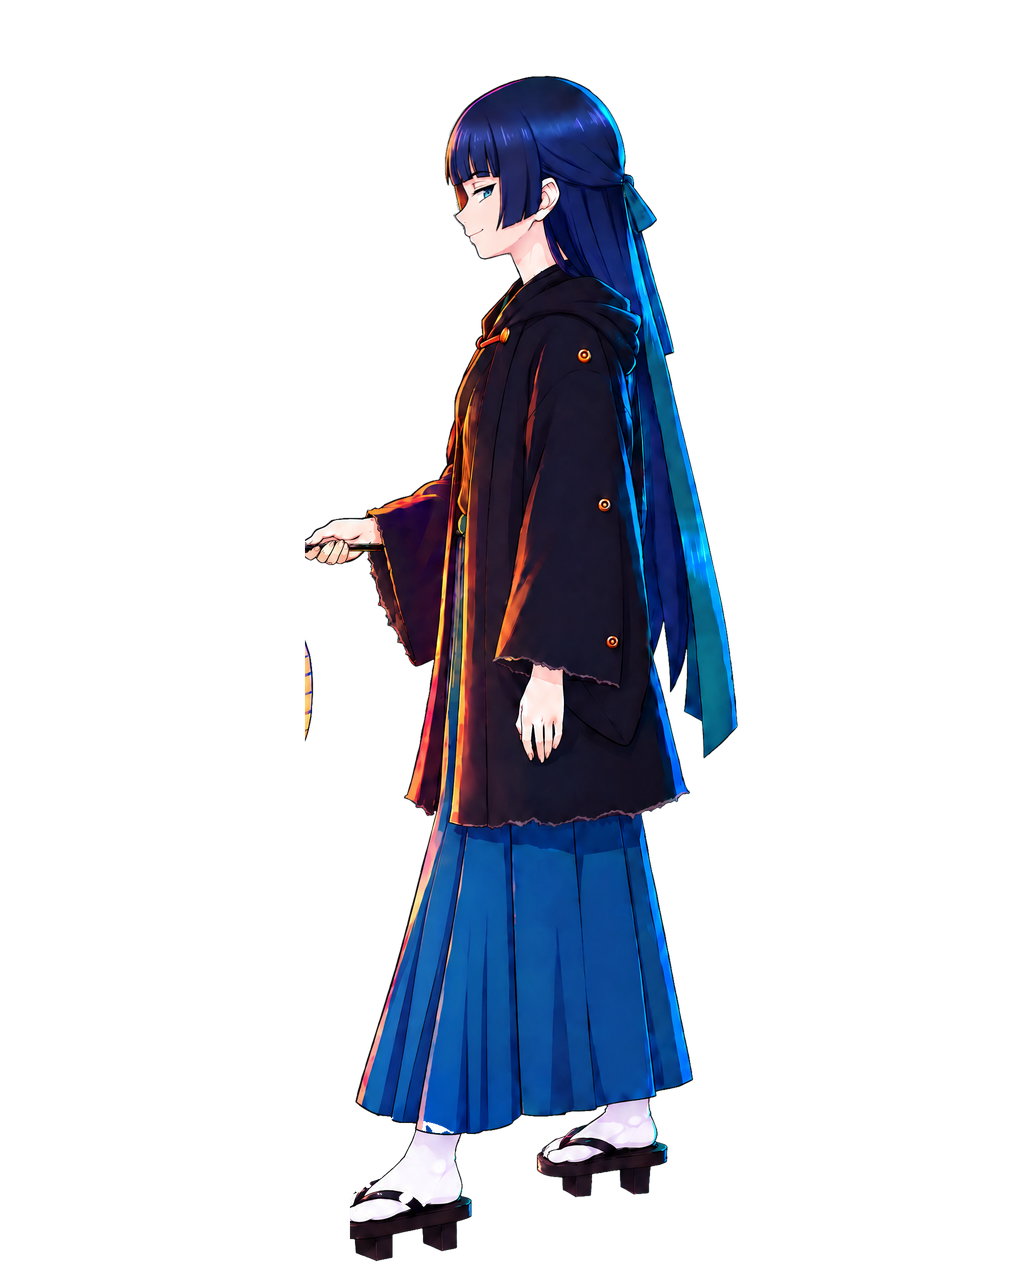
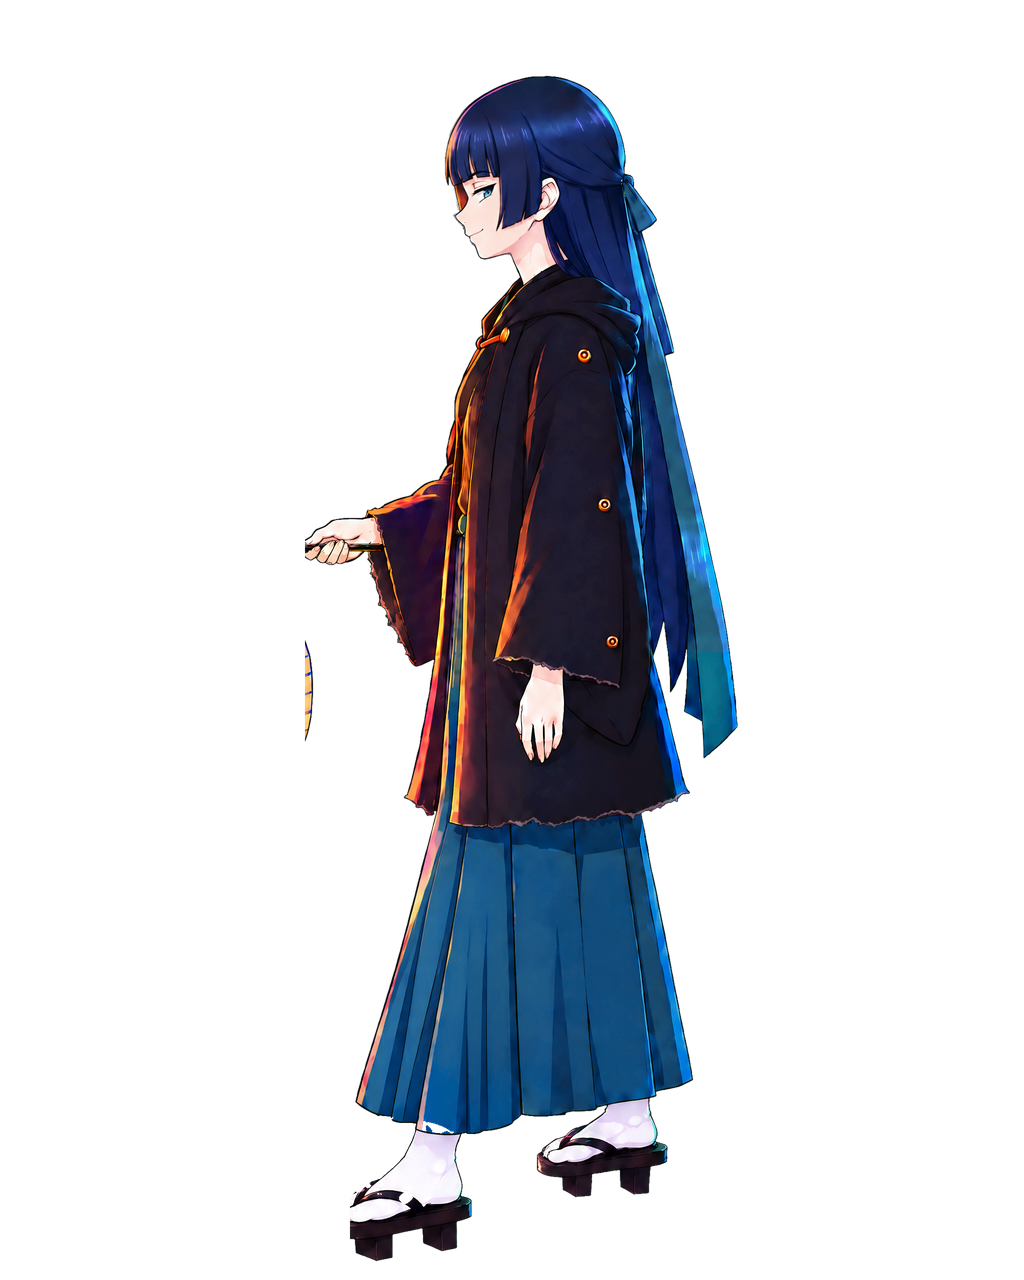
The room ending after v7 (the director's notes; Fable's ruling): - The step matches her: its drawing had drifted over three generations of edits (the hakama royal blue, not her teal); the build   now matches its hakama, hair and jacket to the standing drawing in LAB (mean and spread per region, soft

diff --git a/projects/tsuzuku/src/fableroom.js b/projects/tsuzuku/src/fableroom.js
@@ -154,8 +154,9 @@ const FABLEROOM = (() => {
   //   197.24  claps, two before each "and then" (197.59, 198.21, 198.89), on the eighths before the call.
   //   199.0   the hit: the lantern raised overhead (r_half, r_up: snapped on the dash, 199.07), F-D, "the hit": an open smile, eyes
   //           open, at the window ("I'd still like to see"). Held, frozen with the card, through the ring-out.
-  //   200.58  she lowers it (r_half, then standing), turns (three-quarter, the lantern swinging round in front), glances back at the
-  //           window smiling, and walks off right with the lantern leading, geta on the beat (200.82, 201.18); gone by ~201.3.
+  //   200.58  she lowers it (r_half, then standing) and stays (Fable, after v7: no walk-off): F-C, watching the doors close on the
+  //           frozen card (201.5-202.4), the lantern settling on its ring, still, lit, to the outro's clack at 202.59. (The turn,
+  //           glance and walk drawings stay in rig/fable_room/ending for the record; OFF is unused.)
   const E = { meta: null, img: {}, head: null, P: null }, BR = 60 / 170 * 4, BEAT = BR / 4, EIGHTH = BR / 8;
   const sl = t => Math.floor(t * 12 + 1e-6);
   const EK = { start: 177.8, drop: 182.1176, swing: 185.7, push: 187.6667, stepK: 190.5834, close: 190.9167, smile: 191.25,
@@ -163,7 +164,7 @@ const FABLEROOM = (() => {
   const PULSE = BR / 2;                                                // her pulse: the half-note
   const CALLS1 = [189.111], CALLS2 = [197.591, 198.211, 198.891];      // (the hall's calls: two claps on the eighths before each)
   const CLAPS = [...CALLS1, ...CALLS2].flatMap(c => [c - 2 * EIGHTH, c - EIGHTH]);
-  const PUSH = [['push0.A', 2], ['push1.A', 2], ['push2.B', 2], ['push3.B', 3], ['wipe1.B', 2]];     // (hood down from push2's end)
+  const PUSH = [['push0.A', 2], ['push1.A', 2], ['push1b.A', 1], ['push2.B', 1], ['push2b.B', 1], ['push3.B', 2], ['wipe1.B', 2]];   // (the hood's cloth on twos, v7; hood down from push2)
   const WIPE = [['wipe1.C', 2], ['wipe2.C', 5], ['wipe1.C', 2]];
   const OFF = [['r_half', 1], ['d.C', 1], ['turn1.C', 1], ['turn2.C', 1], ['wc1g', 2], ['wp1.C', 1], ['wc2.C', 2], ['wp1b', 2]];
   const FL = 1218.5, D_NEAR = 499, D_FAR_Y = 1194.5;                 // (hold's near geta tip, its far geta's sole: measured)
@@ -211,10 +212,13 @@ const FABLEROOM = (() => {
     let k = sl(t); const s = { d: 'u.N', ox: 0, oy: 0, sy: 1, swing: 0, k };
     if (k > sl(EK.hit) + 1 && k < sl(EK.lower)) k = sl(EK.hit) + 1;              // the hit: r_up held, frozen with the card
     const run = (list, k0) => { let at = k0; for (const [d, n] of list) { if (k < at + n) return d; at += n; } return null; };
-    if (k >= sl(EK.lower)) {                                                     // she lowers it, turns, glances back, goes
-      const d = run(OFF, sl(EK.lower)); if (!d) return { ...s, d: null, gone: true };
-      const [ox, oy] = d === 'r_half' || d === 'd.C' ? PLACE.L : PLACE[d];
-      return { ...s, d: d === 'wp1b' ? 'wp1.C' : d, ox, oy };
+    if (k >= sl(EK.lower)) {                                                     // she lowers it and stays (Fable, v7: no walk-off)
+      // "I stay and watch the doors close on her frozen card by both lights": standing, F-C, watching the window, the lantern
+      // in her hand settling on its ring after the lowering (a swing that dies out, held on twos), still to the outro's clack
+      const i = k - sl(EK.lower);
+      if (i < 1) return { ...s, d: 'r_half', ox: PLACE.L[0], oy: PLACE.L[1] };
+      const SETTLE = [6, 6, 6, -5, -5, -5, 4, 4, 4, -3, -3, -3, 2, 2, 2, -1, -1, -1];
+      return { ...s, d: 'd.C', ox: PLACE.L[0], oy: PLACE.L[1], swing: SETTLE[i - 1] || 0 };
     }
     if (k >= sl(EK.hit)) return { ...s, d: k === sl(EK.hit) ? 'r_half' : 'r_up', ox: PLACE.L[0], oy: PLACE.L[1] };
     const closed = k >= sl(EK.close), face = k >= sl(EK.smile) ? 'C' : 'B', ph = phase(k / 12);
@@ -273,7 +277,7 @@ const FABLEROOM = (() => {
   // the sounds (sound/mix.py; names from sound/sfx_lib.py), from the same constants: the cloth of the hood sliding back, her claps
   // (her palm on her own wrist: quiet, under the hall's), the step's two geta, and her geta on the walk-off's two contacts
   PAPER_SFX.push(() => [[(sl(EK.push) + 4) / 12, 'cloth', -31], ...CLAPS.map(c => [c, 'clap', -34]),
-                        [190.588, 'geta', -24], [190.941, 'geta', -26], [200.824, 'geta', -26], [201.176, 'geta', -27]]);
+                        [190.588, 'geta', -24], [190.941, 'geta', -26]]);   // (the walk-off's geta went with the walk-off: v7)
   // preview: the ending on a plain dark ground at the finale's room camera (FIN: her feet at (1650, 1010), s .767), on the song
   // clock, Clawd's performance from finale.js (CHOREO.clawdF). ?loop=fableroom_end; _key: the figure alone on green, camera still
   const FIN = { x: 1650, y: 1010, s: 1.394 * .55 };

diff --git a/projects/tsuzuku/rig/fable_room/build.py b/projects/tsuzuku/rig/fable_room/build.py
@@ -287,6 +287,9 @@ def ending():
         fig = (img[..., 3] > 0) & ~cush                                  # (in the footprint, no slivers: what's left there is geta,
         thin = foot & fig & ~ndi.binary_opening(fig, iterations=3)       #  tabi or skirt, all solid)
         out[k] = figure_only(img, cush | thin, np.zeros_like(cush))       # (no default navy cut: the tabi shades lavender)
+    # (v7 review: the hood's cloth in-betweens, push1 -> push2 and push2 -> push3; patched onto hold like the push, from the deckled set)
+    for n in ('push1b', 'push2b'):
+        kn = load_reg('k_' + n); out[n] = blend(hold, kn, feather_mask(changed(kn, hold, zone)) * armz)
     out, prop_meta = expressed(out, hold, base, K, M, SRC, H, W, xx, yy)
     # full-res exports of the composites, for crop edits (faces) and whole edits (claps, the raise): src/x_<name>.png
     for k in ('u', 'u_up', 'd', 'd_up', 'd_dn'):
@@ -374,6 +377,7 @@ def expressed(out, hold, base, K, M, SRC, H, W, xx, yy):
     new['u.A'] = face('u', 'A', 'u'); new['u_up.A'] = face('u_up', 'A', 'u_up')
     new['push0.A'] = face('push0', 'A', 'u'); new['push1.A'] = face('push1', 'A', 'u')
     new['push2.B'] = face('push2', 'B', 'd'); new['push3.B'] = face('push3', 'B', 'd')
+    new['push1b.A'] = face('push1b', 'A', 'u'); new['push2b.B'] = face('push2b', 'B', 'd')
     for hk in ('d', 'd_up', 'd_dn'):
         new[hk + '.B'] = face(hk, 'B', 'd')
         new[hk + '.C'] = face(hk, 'C', hk)
@@ -408,7 +412,7 @@ def expressed(out, hold, base, K, M, SRC, H, W, xx, yy):
     offsets = {}
     for k in list(new):
         body = k.split('.')[0]
-        if body in ('u', 'u_up', 'push0', 'push1', 'push2', 'push3', 'd', 'd_up', 'd_dn', 'wipe1', 'wipe2', 'c_open', 'c_shut'):
+        if body in ('u', 'u_up', 'push0', 'push1', 'push1b', 'push2', 'push2b', 'push3', 'd', 'd_up', 'd_dn', 'wipe1', 'wipe2', 'c_open', 'c_shut'):
             same = np.abs(new[k][..., :3].astype(int) - hold[..., :3].astype(int)).max(-1) < 40
             new[k] = with_alpha(new[k], ~(cut & (same | (new[k][..., 3] < 40)))); offsets[k] = [0, 0]
     for k in ('r_half', 'r_up'):                                          # (the raise carries its own lantern: hold's leaves, fully)
@@ -423,9 +427,32 @@ def expressed(out, hold, base, K, M, SRC, H, W, xx, yy):
     lc = lantern_center(st)
     own = box_mask((H, W), (int(lc[0]) - 190, int(lc[1]) - 330, int(lc[0]) + 190, int(lc[1]) + 280)) if lc else np.zeros((H, W), bool)
     stcut = (ndi.binary_dilation(sh(lan | stk), iterations=14) | own) & (xx < GRIP[0] + sdx - 40)
-    new['step.B'] = with_alpha(st, ~stcut); offsets['step.B'] = [sdx, sdy]
+    new['step.B'] = match_colours(with_alpha(st, ~stcut), new['d.B']); offsets['step.B'] = [sdx, sdy]
     pts = {'grip': GRIP, 'hook': HOOK, 'lantern_c': lantern_center(hold)}
     return new, {'layers': layers, 'offsets': {k: [v[0] * SC, v[1] * SC] for k, v in offsets.items()}, 'points': pts}
+
+
+def match_colours(img, ref):
+    """v7 review: the step drawing (three generations of edits) drifted: the hakama royal blue, not her teal. Each region (hakama,
+    hair, jacket; soft masks by colour and place) gets its LAB mean and spread matched to the standing drawing's"""
+    H, W = img.shape[:2]; yy, xx = np.mgrid[:H, :W]
+    lab = lambda a: cv2.cvtColor(a[..., :3], cv2.COLOR_RGB2LAB).astype(np.float32)
+    def masks(a):
+        r, g, b = [a[..., i].astype(np.float32) for i in range(3)]; lum = .299 * r + .587 * g + .114 * b; al = a[..., 3] > 128
+        return {'skirt': al & (yy > 1560) & (b > r + 40), 'hair': al & (yy < 1300) & (b > r + 30) & (lum < 120) & ~((yy > 1560)),
+                'jacket': al & (yy < 1700) & (lum < 70) & (np.abs(b - r) < 40)}
+    Li, Lr = lab(img), lab(ref); Mi, Mr = masks(img), masks(ref); out = Li.copy(); wsum = np.zeros((H, W), np.float32)
+    acc = np.zeros_like(Li)
+    for k in ('skirt', 'hair', 'jacket'):
+        mi, mr = Mi[k], Mr[k]
+        if mi.sum() < 500 or mr.sum() < 500: continue
+        mu_i, sd_i, mu_r, sd_r = Li[mi].mean(0), Li[mi].std(0) + 1e-3, Lr[mr].mean(0), Lr[mr].std(0)
+        t = (Li - mu_i) / sd_i * sd_r + mu_r
+        w = np.clip(ndi.gaussian_filter(mi.astype(np.float32), 6) * 1.6, 0, 1)
+        acc += t * w[..., None]; wsum += w
+    k = np.clip(wsum, 0, 1)[..., None]; out = Li * (1 - k) + (acc / np.maximum(wsum, 1e-6)[..., None]) * k
+    rgb = cv2.cvtColor(np.clip(out, 0, 255).astype(np.uint8), cv2.COLOR_LAB2RGB)
+    o = img.copy(); o[..., :3] = rgb; return o
 
 
 def save_to(img, path):

diff --git a/projects/tsuzuku/rig/fable_room/gen.py b/projects/tsuzuku/rig/fable_room/gen.py
@@ -383,6 +383,20 @@ JOBS['g_wc1'] = ([os.path.join(D, 'src', '_faces', 'guide_glance.png')],
     "and cuffs in a lighter value of the black cloth (no white, no pale band), exactly as in image 1: same size and position. "
     "Flat pure green (#00FF00) background, nothing else. No green on her.")
 
+# (v7 review, the director: the hood jumps between push drawings. Two cloth in-betweens, from the deckled pair either side)
+INB = ("Image 1 and image 2 are two drawings of one animation of the same girl, in the same frame, as she pushes her hood back with "
+       "her near hand. Draw the in-between drawing, exactly halfway between them: the hand and arm halfway between their places in "
+       "image 1 and image 2, and the hood's cloth halfway through its fall: ")
+INBK = (" Everything else identical to both images: the face in profile, the far arm holding the lantern's stick forward, the "
+        "lantern, the jacket with its thin torn-paper (deckle) hem and cuffs in a lighter value of the black cloth (no white, no pale "
+        "band), the skirt, feet and geta, the scale and position, the lighting. Flat pure green (#00FF00) background. No green on her.")
+JOBS['k_push1b'] = ([mine('k_push1'), mine('k_push2')], INB + "the hood is starting to slide back off her head, its front rim now "
+    "at the top of her forehead, pushed by her fingers, the first of her bangs showing beneath it, the cloth creasing at the back of "
+    "her head." + INBK)
+JOBS['k_push2b'] = ([mine('k_push2'), mine('k_push3')], INB + "the hood has slipped off the back of her head and is falling down "
+    "past the nape of her neck toward her shoulders, the cloth folding as it drops, her hand following it down behind her head; "
+    "her whole head of hair uncovered." + INBK)
+
 
 def run(name):
     refs, prompt = JOBS[name]
